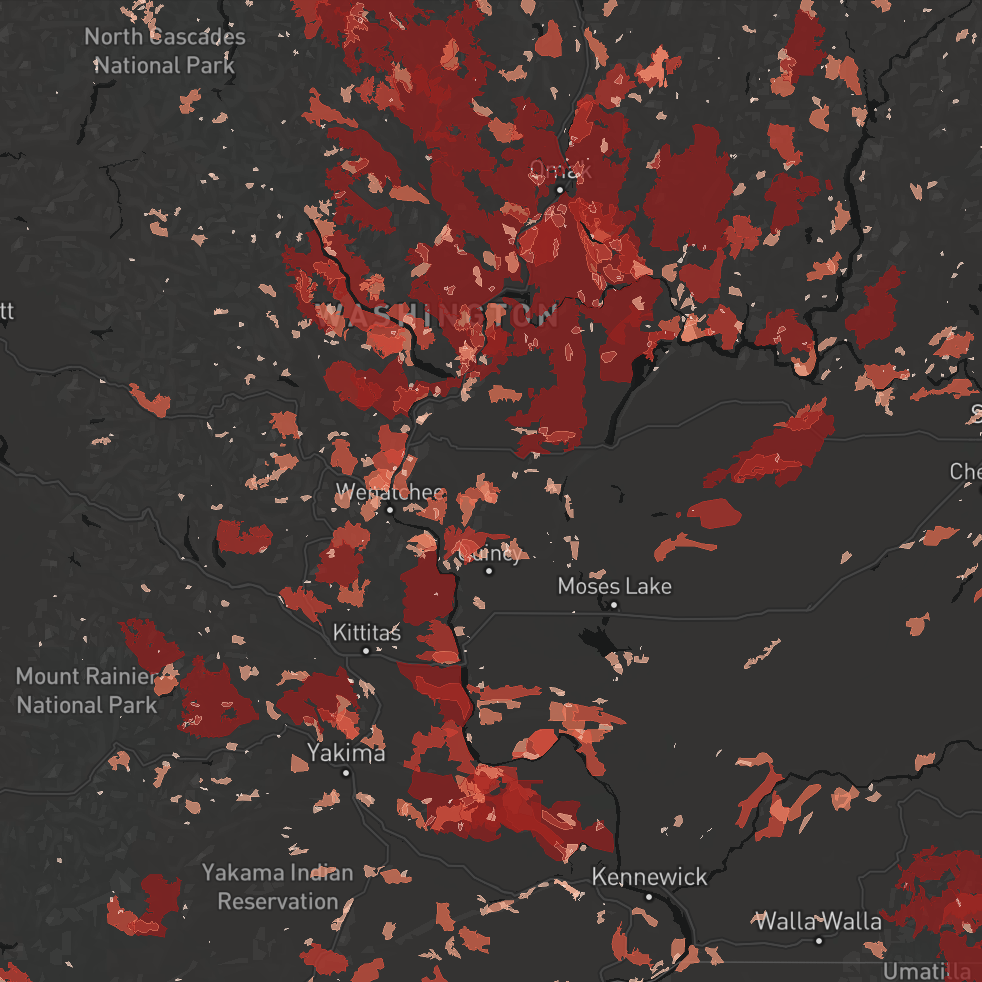
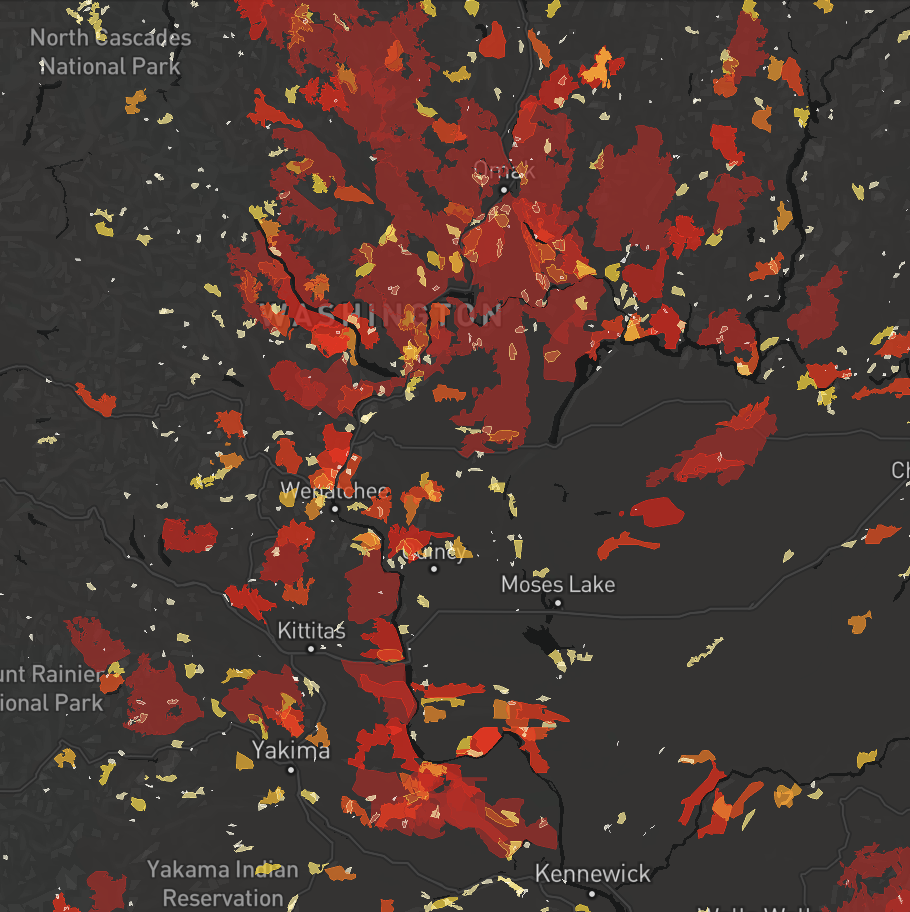
im sorry

diff --git a/wildfiremap.html b/wildfiremap.html
@@ -67,33 +67,33 @@
         <!-- <div style="max-width: 700px;">
             <canvas id="myChart"></canvas>
         </div> -->
-        <div class="description">This map displays the number of wildfires in Washington State from 1973-2022, allowing you to choose a year and view wildfire information from that specific year. </div>
+        <div class="description">This map displays the number of wildfires in Washington State from 1973-2022, with a slider to view wildfire progression throughout time. </div>
         <div id="legend">
             <strong>Wildfire Size (Acres)</strong>
             <div class="legend-item">
-                <div class="legend-color" style="background-color: #fee5d9;"></div>
+                <div class="legend-color" style="background-color: #ffffff;"></div>
                 0 - 1,000
             </div>
             <div class="legend-item">
-                <div class="legend-color" style="background-color: #fcbba1;"></div>
+                <div class="legend-color" style="background-color: #fff5c3;"></div>
                 1,000 - 5,000
             </div>
             <div class="legend-item">
-                <div class="legend-color" style="background-color: #fc9272;"></div>
+                <div class="legend-color" style="background-color: #ffd700;"></div>
                 5,000 - 10,000
             </div>
             <div class="legend-item">
-                <div class="legend-color" style="background-color: #fb6a4a;"></div>
+                <div class="legend-color" style="background-color: #ff4500;"></div>
                 10,000 - 25,000
             </div>
             <div class="legend-item">
-                <div class="legend-color" style="background-color: #de2d26;"></div>
+                <div class="legend-color" style="background-color: #ff0000;"></div>
                 25,000 - 50,000
             </div>
             <div class="legend-item">
-                <div class="legend-color" style="background-color: #a50f15;"></div>
+                <div class="legend-color" style="background-color: #b22222;"></div>
                 50,000+
-            </div>
+            </div>            
         </div>
         
         
@@ -123,16 +123,17 @@
                 source: 'wildfires',
                 paint: {
                     'fill-color': [
-                        'interpolate',
-                        ['linear'],
-                        ['get', 'ACRES'],
-                        0, '#fee5d9',
-                        1000, '#fcbba1',
-                        5000, '#fc9272',
-                        10000, '#fb6a4a',
-                        25000, '#de2d26',
-                        50000, '#a50f15'
-                    ],
+                    'interpolate',
+                    ['linear'],
+                    ['get', 'ACRES'],
+                    0, '#ffffff',     // White for the lowest value
+                    1000, '#fff5c3',  // Light yellow for 1,000
+                    5000, '#ffd700',  // Bold yellow for 5,000
+                    10000, '#ff4500', // Light red for 10,000
+                    25000, '#ff0000', // Vivid red for 25,000
+                    50000, '#b22222'  // Dark red for 50,000+
+                ],
+
                     'fill-opacity': 0.7
                 }
             });
